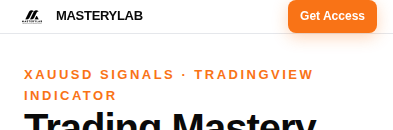
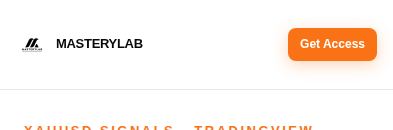
Fix header padding: explicit horizontal padding (24px desktop, 16px mobile)

diff --git a/index.html b/index.html
@@ -58,7 +58,6 @@
   .lead { font-size: 19px; color: var(--muted); max-width: 640px; line-height: 1.6; }
 
   .wrap { max-width: 1180px; margin: 0 auto; padding: 0 24px; }
-  .wrap.nav { padding: 0 16px; }
 
   /* === BUTTONS === */
   .btn {
@@ -95,7 +94,7 @@
   }
   .nav {
     display: flex; align-items: center; justify-content: space-between;
-    padding: 36px 0; gap: 16px;
+    padding: 36px 24px; gap: 16px;
   }
   .brand {
     display: flex; align-items: center; gap: 10px;
@@ -554,7 +553,7 @@
     .hero-grid { gap: 40px; }
     section { padding: 60px 0; }
     .hero { padding: 60px 0; }
-    .nav { padding: 28px 0; gap: 10px; }
+    .nav { padding: 28px 16px; gap: 10px; }
     .brand { font-size: 13px; gap: 8px; }
     .brand img { height: 32px; width: 32px; }
     .nav-cta { padding: 7px 12px !important; font-size: 12px !important; }
